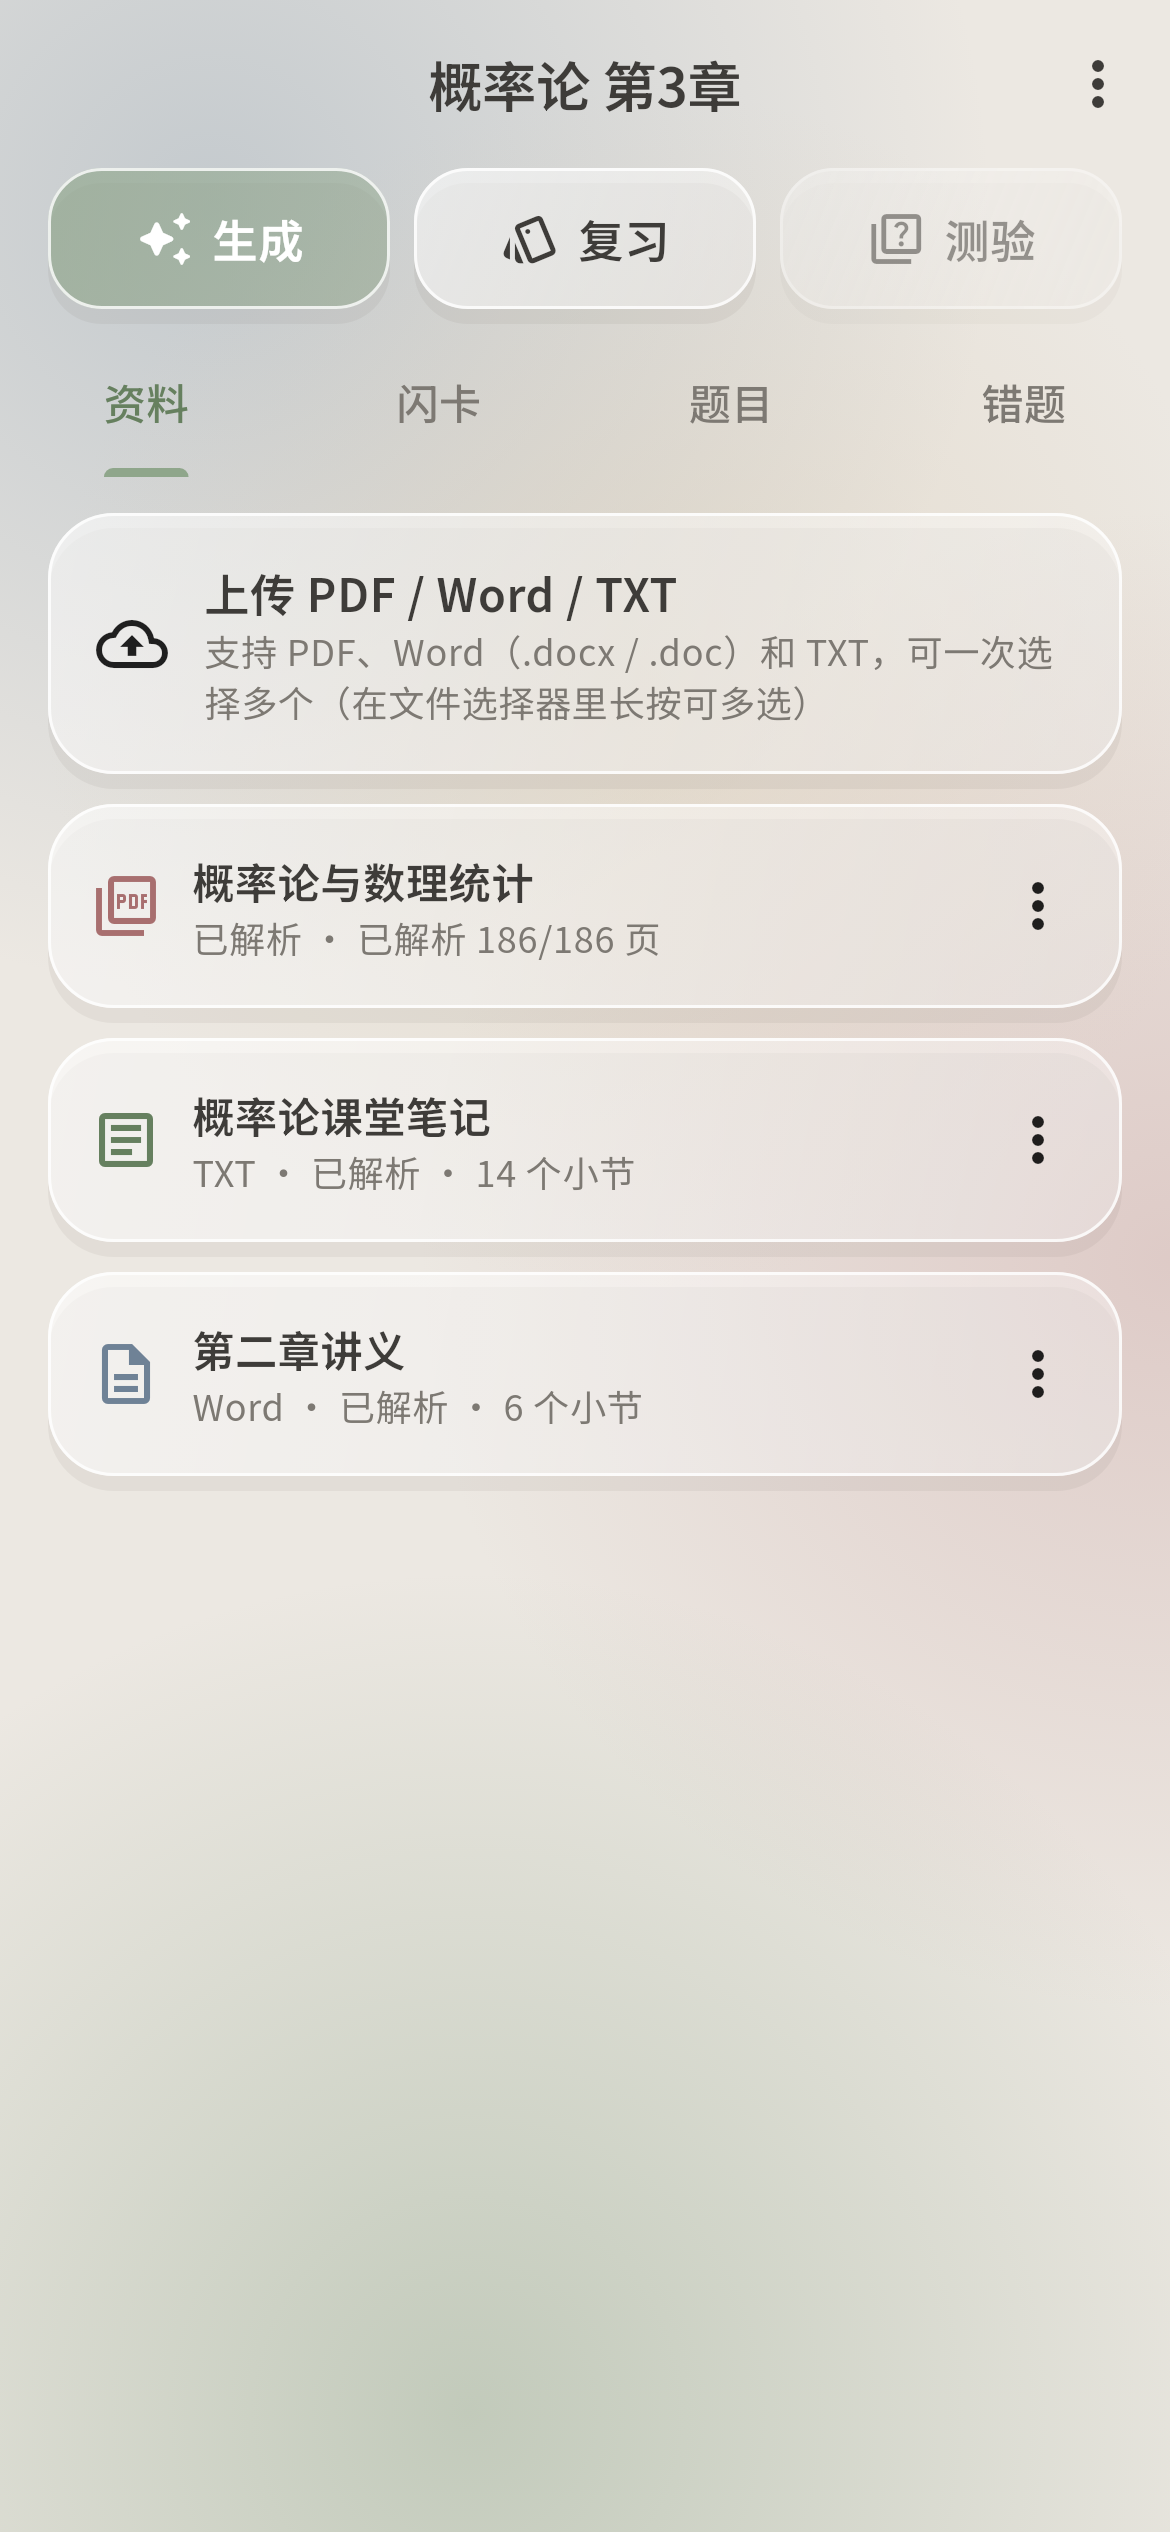
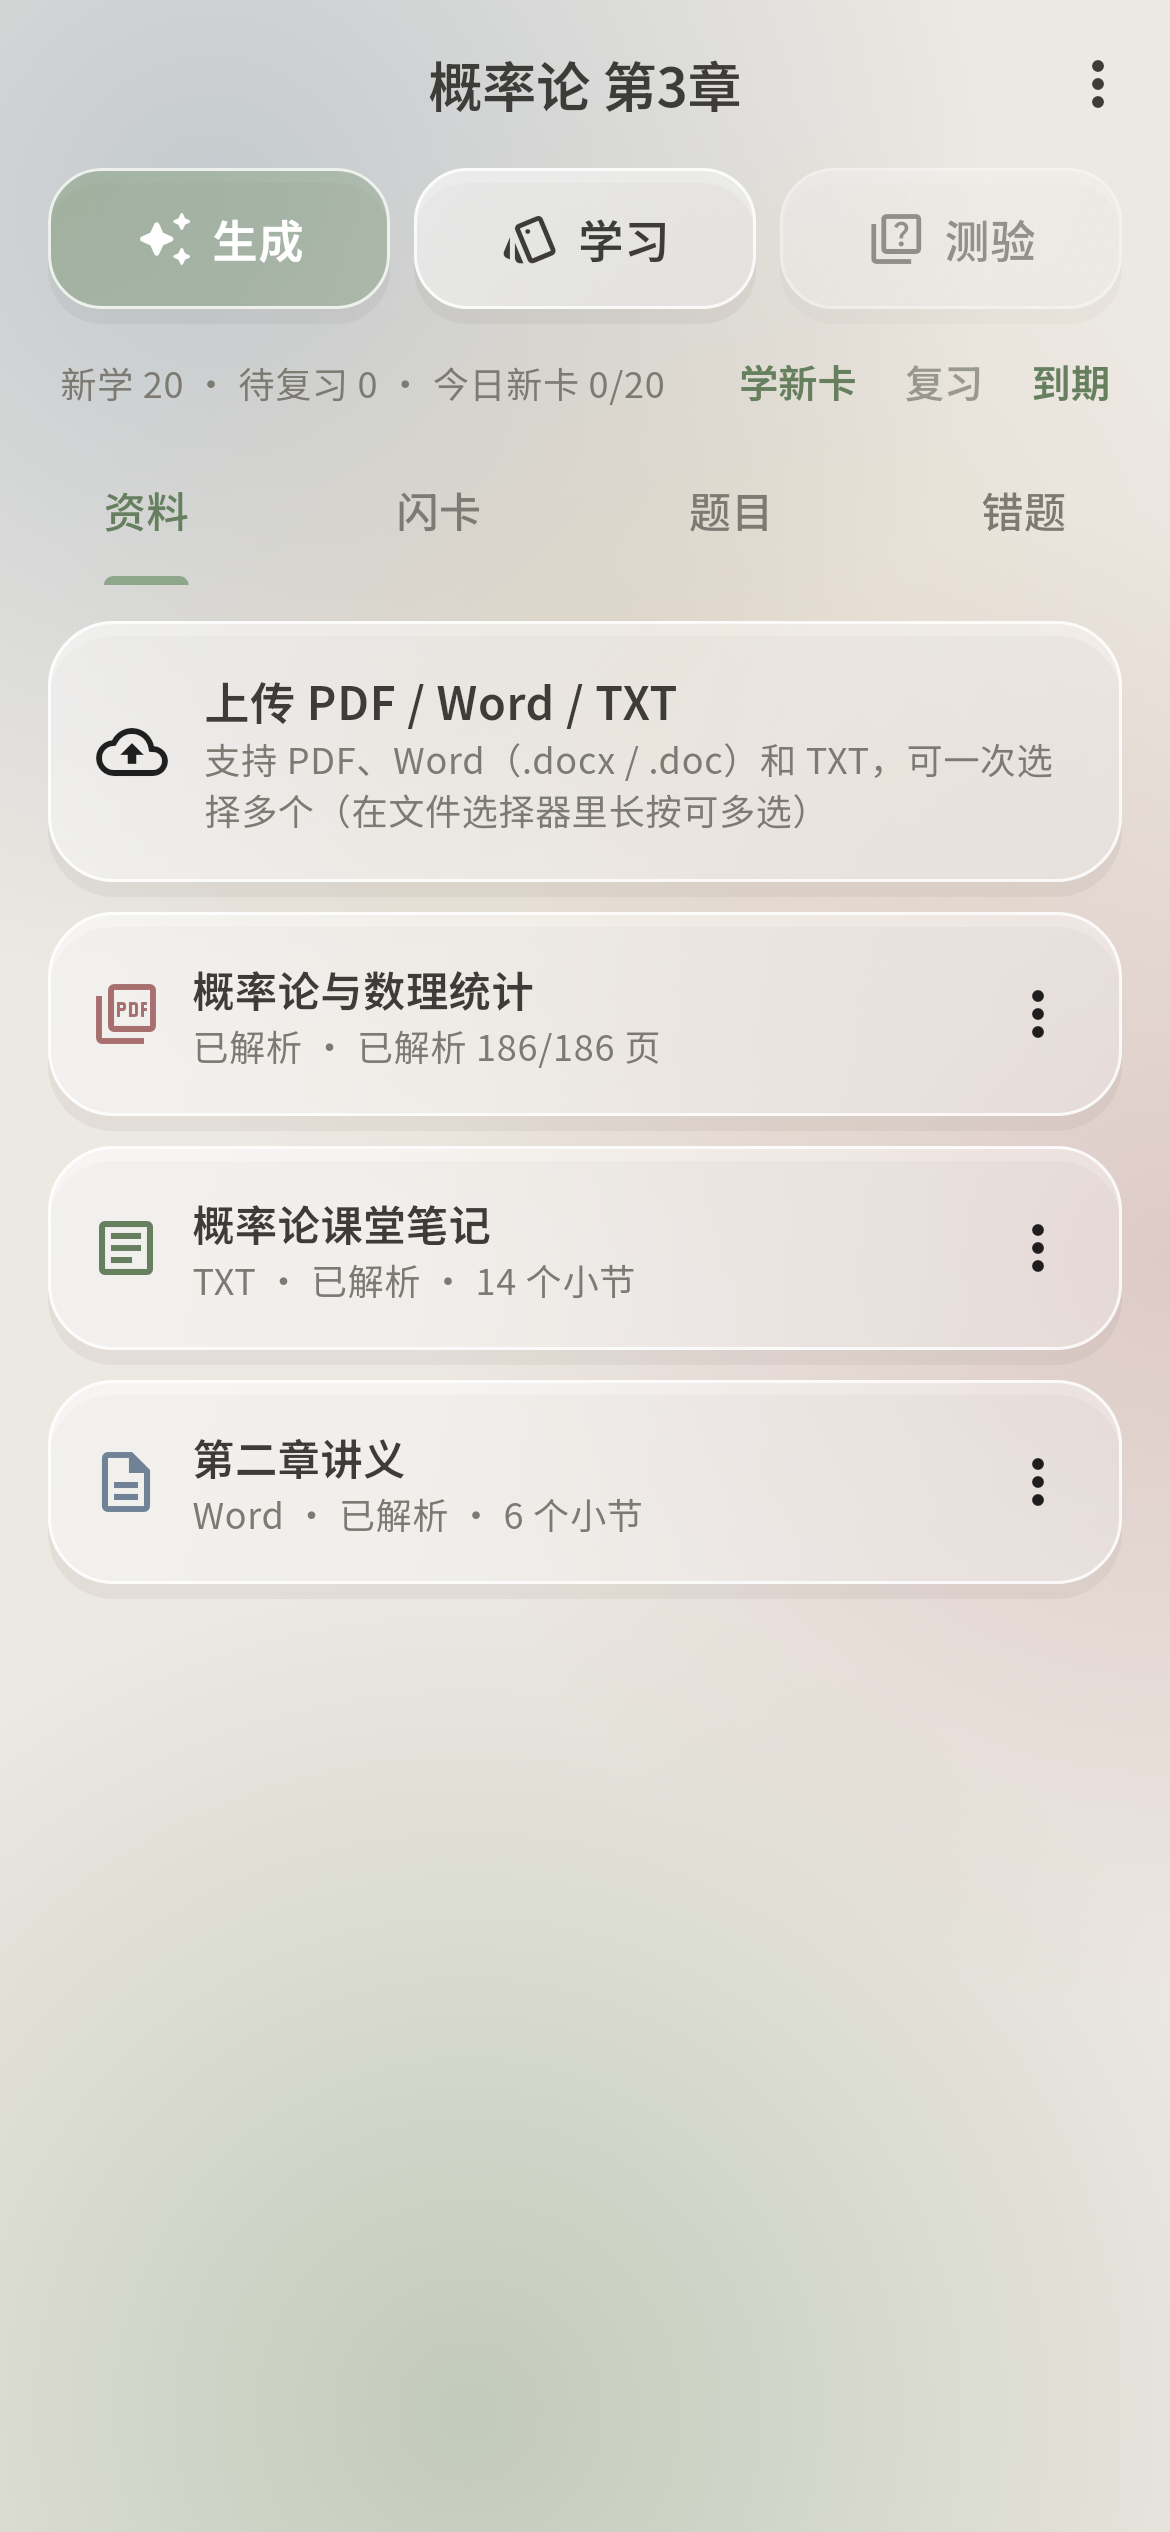
v1.3.6 文档、截图与版本号

diff --git a/README.en.md b/README.en.md
@@ -55,6 +55,11 @@ AI Flashcards (闪卡刷题) is an open-source study app for Android. Import a P
     <td align="center"><img src="docs/screenshots/32_latex_text.png" width="190"><br><sub>LaTeX text formatting</sub></td>
     <td align="center"><img src="docs/screenshots/34_txt_doc.png" width="190"><br><sub>TXT files</sub></td>
   </tr>
+  <tr>
+    <td align="center"><img src="docs/screenshots/35_new_vs_review.png" width="190"><br><sub>New vs. due</sub></td>
+    <td align="center"><img src="docs/screenshots/36_card_badge.png" width="190"><br><sub>Card badges</sub></td>
+    <td align="center"><img src="docs/screenshots/37_due_by_day.png" width="190"><br><sub>Due by day</sub></td>
+  </tr>
 </table>
 
 ## Features
@@ -75,10 +80,12 @@ AI Flashcards (闪卡刷题) is an open-source study app for Android. Import a P
 
 **Review and practice**
 - FSRS spaced-repetition scheduling, swipe to grade, step back and forward through cards
+- New and due cards are counted separately (Anki-style): "Learn new", "Review", and "Study all" (due reviews first, then new); 20 new cards a day by default, with "10 more today"; each card is badged new / review / relearn
+- Due by day: see which cards come due on which day (including overdue), filter by project, and review them right away
 - Objective questions are graded automatically; short-answer and calculation questions are graded by AI
 - AI explanations grounded in the source text, with follow-up questions; every explanation is kept in a searchable history you can star and continue
 - Mistake book: wrong answers are collected automatically, filterable by project, with new questions generated for weak points
-- Study data: daily overview (reviews, accuracy, time, streak), a six-month heatmap, 7 / 30-day due forecast, and mastery per project and chapter
+- Study data: daily overview (reviews, accuracy, time, streak), a six-month heatmap, a due forecast for 7 / 30 / 90 days or everything (weekly or monthly bars beyond 30 days; tap a bar to see that day's cards), and mastery per project and chapter
 - Weak-spot suggestions based on lapses, mistakes, and recall, with one tap to review them or generate new questions targeting them
 - Study settings: daily new / review limits, FSRS desired retention, day start time
 - Daily review reminder (local notification, no network needed)

diff --git a/CHANGELOG.md b/CHANGELOG.md
@@ -6,6 +6,26 @@
 
 ## [Unreleased]
 
+## [1.3.6] - 2026-11-21
+
+### 新增
+
+- 新卡和复习分开计数（类似 Anki）：首页、「复习」页和项目页分别显示「新学 N」（还没学过的卡，刚生成的卡都算新卡）和「待复习 M」（学过、今天到期或已逾期的卡），以及「今日新卡 8/20」进度。
+- 三个学习入口：「学新卡」只学新卡；「复习」只复习到期的卡；「全部学习」先复习到期的卡，再学新卡。项目页顶部的按钮改名为「学习」（即全部学习），下面一行有「学新卡」「复习」「到期」。
+- 今天的新卡学完后，完成页可以点「今天再学 10 张」，只放宽当天的上限，换日后恢复。
+- 复习时卡片左上角标出身份：新 / 复习 / 重学。
+- 每日到期卡片页（「查看到期安排」）：按天查看哪些卡什么时候到期，今天单独列出已逾期和今天可学的新卡；可按项目筛选、预览正反面，「现在复习这些」马上复习，或「暂停这张卡」。只查看，不改变复习计划。
+- 遗忘预测增加「90 天」（按周合计）和「全部」（按周，跨度很长时按月）；点任意柱子打开到期安排，定位到那一天（或那一周 / 那个月的第一天）。
+
+### 变更
+
+- 「每日新卡」默认改为 20 张（之前默认不限，拉到最左仍为不限），按「新的一天从几点开始」换日；复习不占新卡名额。
+- 每日提醒的文字改为提醒新卡和到期复习。
+
+### 说明
+
+- FSRS 调度算法没有任何改动，只改变「今天学哪些卡、按什么顺序」。
+
 ## [1.3.5] - 2026-11-21
 
 ### 新增
@@ -147,7 +167,8 @@
 - 完整的 LaTeX 公式排版与 Markdown 格式显示。
 - 学习统计页面。
 
-[Unreleased]: https://github.com/HenryHam88/ai-flashcards/compare/v1.3.5...HEAD
+[Unreleased]: https://github.com/HenryHam88/ai-flashcards/compare/v1.3.6...HEAD
+[1.3.6]: https://github.com/HenryHam88/ai-flashcards/compare/v1.3.5...v1.3.6
 [1.3.5]: https://github.com/HenryHam88/ai-flashcards/compare/v1.3.4...v1.3.5
 [1.3.4]: https://github.com/HenryHam88/ai-flashcards/compare/v1.3.3...v1.3.4
 [1.3.3]: https://github.com/HenryHam88/ai-flashcards/compare/v1.3.2...v1.3.3

diff --git a/README.md b/README.md
@@ -52,6 +52,11 @@
     <td align="center"><img src="docs/screenshots/32_latex_text.png" width="190"><br><sub>LaTeX 文本格式</sub></td>
     <td align="center"><img src="docs/screenshots/34_txt_doc.png" width="190"><br><sub>TXT 资料</sub></td>
   </tr>
+  <tr>
+    <td align="center"><img src="docs/screenshots/35_new_vs_review.png" width="190"><br><sub>新学 / 待复习</sub></td>
+    <td align="center"><img src="docs/screenshots/36_card_badge.png" width="190"><br><sub>卡片标签</sub></td>
+    <td align="center"><img src="docs/screenshots/37_due_by_day.png" width="190"><br><sub>每日到期卡片</sub></td>
+  </tr>
 </table>
 
 ## 功能
@@ -72,10 +77,12 @@
 
 **复习与测验**
 - FSRS 间隔重复调度，滑动评分，支持上一张 / 下一张回看
+- 新卡和复习分开计数（类似 Anki）：「新学」和「待复习」，入口「学新卡」「复习」「全部学习」（先复习后新卡）；每日新卡默认 20 张，可「今天再学 10 张」；卡片标出新 / 复习 / 重学
+- 每日到期卡片：按天查看哪些卡什么时候到期（含逾期），按项目筛选，一键复习这些
 - 客观题自动判分，简答题和计算题由 AI 批改
 - AI 解释：结合原文讲解、举例，可以继续追问；所有解释自动保存到「解释历史」，可搜索、收藏、随时接着问
 - 错题本：自动收录，按项目筛选，针对薄弱知识点再出新题
-- 学习数据：每日概览（练习次数、正确率、学习时长、连续天数）、半年热力图、未来 7 / 30 天到期预测、各项目和章节的掌握度
+- 学习数据：每日概览（练习次数、正确率、学习时长、连续天数）、半年热力图、未来 7 / 30 / 90 天和全部到期预测（90 天和全部按周或按月合计，点柱子看当天的卡）、各项目和章节的掌握度
 - 薄弱点推荐：根据遗忘次数、错题和记忆率找出最弱的章节，一键「复习这些」或「针对这些出新题」
 - 学习设置：每日新卡 / 复习上限、FSRS 目标记忆率、每日开始时间
 - 每日复习提醒（本地通知，无需联网）
